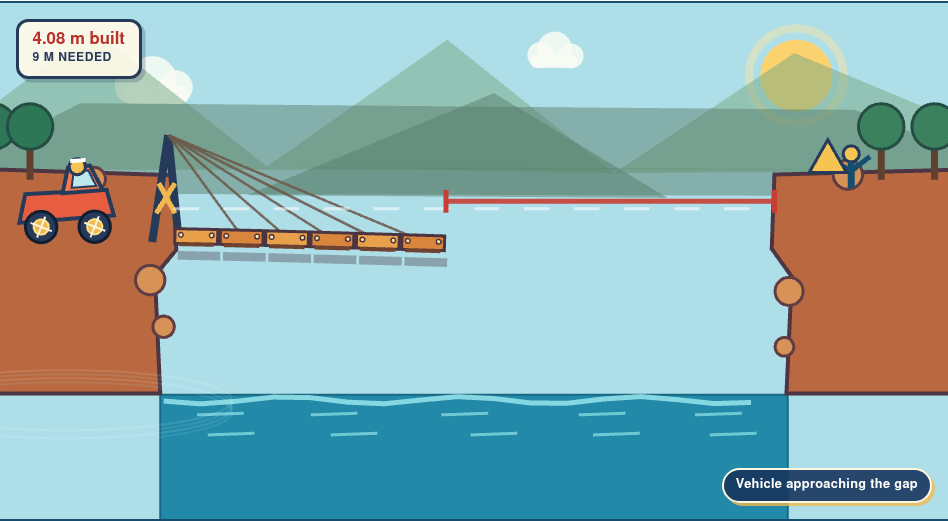
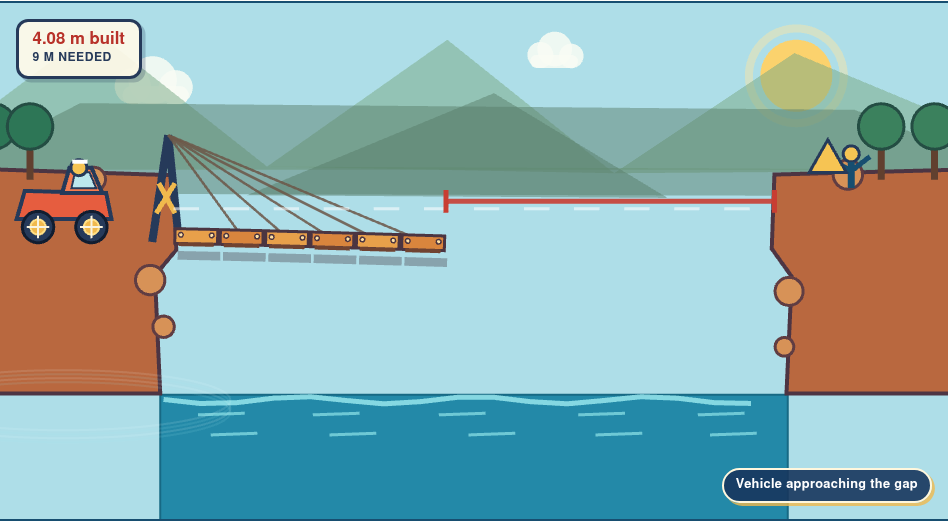
docs: record rescue r2 production evidence
Record the green CI and gated deployment runs, Cloudflare version, focused production performance and semantic checks, and the visually inspected production before/climax frames and complete wrong-run capture. Keep M5 open for human visual approval and M9 blocked.

diff --git a/STATUS.md b/STATUS.md
@@ -11,7 +11,7 @@ States: `not started`, `in progress`, `blocked`, `done`, `cut`.
 | M2 — Deployable room shell | done | On 2026-07-21, local validation, 3 production Chromium tests, CI run `29802489533`, and gated deployment/smoke run `29802536234` passed | None | Begin M3 realtime canvas and deterministic bridge | `0c39b42` (delivery fixes through `c906082`) |
 | M3 — Realtime canvas and deterministic bridge | done | On 2026-07-21, the local gate, CI run `29804635232`, deployment/smoke run `29804696808`, and 11 strengthened production Chromium tests passed; the browser gate requires real PixiJS canvases under strict CSP | None | Begin M4 GPT-5.6 handwriting interpretation | `b76eede` (CSP delivery fix `cb80021`) |
 | M4 — GPT-5.6 handwriting integration | done | On 2026-07-21, 39 unit, 13 Worker/DO/R2 integration, build, 12 mocked Chromium, and the two-sample live gate passed; CI `29807921144`, deploy/smoke `29807995100`, and repeated real production analysis on version `4df2792d-c731-4f05-946b-000671de227e` passed with exact hero inputs, private media, persisted analysis/run, and a clean rendered card | None | Begin M5 complete hero and judge flow | `969f99d` (Worker fetch fix `42ae639`) |
-| M5 — Complete hero and judge flow | in progress | Rescue Checkpoint R0 passed the complete local and production gates. Rescue Checkpoint R2 passed the complete local gate on 2026-07-21: format, lint, strict types, 67 unit, 22 Worker/SQLite DO/R2 integration, build, secret audit, and 22 Chromium tests. Focused browser coverage also passed the 4.08 m articulated failure, replay without a new request, complete reduced-motion meaning, fallback rendering, low-detail controls, and opt-in break/suspension/splash audio. The local R2 verifier measured a 13.94-second semantic sequence, 22.8 fps average and 50.1 ms p95 under headless software rendering, then completed replay and reduced-motion checks. The 1440×1000 before/climax frames and 19.28-second VP8 capture were visually inspected locally. | R2 is implemented and locally green but remains unapproved until the production deployment, focused production verifier, production captures, and human review pass. The successful outcome remains outside this checkpoint. | Commit, push, deploy, run the focused production R2 gate, replace local captures with production evidence, and stop for human approval | R0 implementation `662f28d`; R2 commit pending |
+| M5 — Complete hero and judge flow | in progress | Rescue Checkpoint R0 passed the complete local and production gates. Rescue Checkpoint R2 commit `0476c04` passed the complete local gate and CI `29843521120` on 2026-07-21: format, lint, strict types, 67 unit, 22 Worker/SQLite DO/R2 integration, build, secret audit, and 22 Chromium tests. Gated run `29843719410` deployed Cloudflare version `443a90cd-2777-480f-bb42-78a14940bb86` and passed baseline smoke. The focused production R2 verifier passed the 4.08 m phase sequence in 14.10 seconds at 28.6 fps average / 50.1 ms p95 under headless software rendering, replay without a request, and complete reduced-motion meaning. The final 1440×1000 production before/climax frames and 21.56-second VP8 capture were visually inspected; the video includes setup context around the 14.10-second run. | R2 is deployed and technically green but remains unapproved until human visual review. The successful outcome remains outside this checkpoint. | Stop for human R2 approval; do not begin the successful-outcome rebuild or another rescue checkpoint | R0 implementation `662f28d`; R2 implementation `0476c04`; production evidence recorded in the next checkpoint commit |
 | S1 — Water and volume family | cut | Implementation code and internal integration coverage remain; local and production R0 navigation/route checks pass | Human review has not approved this scenario for the public product | Keep the production feature flag disabled | Historical implementation through `f436986`; hidden in production by `662f28d` |
 | S2 — Speed, time, and collision family | cut | Implementation code and internal integration coverage remain; local and production R0 navigation/route checks pass | Human review has not approved this scenario for the public product | Keep the production feature flag disabled | Historical implementation through `fa857d3`; hidden in production by `662f28d` |
 | S3 — Structure, load, and destruction family | cut | Implementation code and internal integration coverage remain; local and production R0 navigation/route checks pass | Human review has not approved this scenario for the public product | Keep the production feature flag disabled | Historical implementation through `5942254`; hidden in production by `662f28d` |
@@ -27,9 +27,9 @@ GitHub CLI authentication, scoped Actions deployment secrets, the
 authentication, and local `.dev.vars` are available. Secret values were not
 printed. The active blocker is product-quality approval. Rescue Checkpoint R0
 resolved the same-tab judge flow and narrowed the public scope. Rescue Checkpoint
-R2 rebuilds only the wrong bridge consequence and has passed its local gates; it
-still requires production verification and human visual approval. The successful
-outcome has not been rebuilt.
+R2 rebuilds only the wrong bridge consequence and has passed its local and
+production gates; it still requires human visual approval. The successful outcome
+has not been rebuilt.
 
 Credentials still reserved for later gates:
 

diff --git a/docs/08-SUBMISSION-EVIDENCE.md b/docs/08-SUBMISSION-EVIDENCE.md
@@ -28,13 +28,13 @@ Do not use:
 | Item | Value | Status |
 |---|---|---|
 | Production URL | `https://lost-lessons-lab.sanocks.workers.dev` | PASS |
-| Judge URL | `https://lost-lessons-lab.sanocks.workers.dev/judge` | PASS for complete M5 hero |
+| Judge URL | `https://lost-lessons-lab.sanocks.workers.dev/judge` | PASS through Rescue R2; human visual approval pending |
 | Repository URL | `https://github.com/alexandr-panchenko/lost-lessons-lab` | PASS |
 | Public video URL | pending | PENDING |
[1 lines of base64/hex data omitted]
 | Submission commit | pending | PENDING |
 | Submission tag | `build-week-submission` pending | PENDING |
-| Cloudflare deployment/version | M8 final `968d9590-25e6-4a6d-8ea6-e6b12febb9be` from commit `951c978` | PASS through M8 |
+| Cloudflare deployment/version | Rescue R2 `443a90cd-2777-480f-bb42-78a14940bb86` from commit `0476c04` | PASS technically; human visual approval pending |
 | Representative Codex Session ID | store in private submission checklist; pending | PENDING |
 | OpenAI model ID observed in production | `gpt-5.6-sol` | PASS |
 | License | `LICENSE`, Apache-2.0; public GitHub metadata reports Apache-2.0 | PASS |
@@ -48,7 +48,7 @@ Do not use:
 | M3 — realtime canvas and deterministic bridge | Core commit `b76eede`; strict-CSP delivery fix `cb80021`; Cloudflare version `71f9ffc7-9423-413f-a52e-4ccac07ff6c4`; CI `https://github.com/alexandr-panchenko/lost-lessons-lab/actions/runs/29804635232`; deploy/smoke `https://github.com/alexandr-panchenko/lost-lessons-lab/actions/runs/29804696808`; `src/shared/canvas.ts`; `src/shared/domain/bridge.ts`; `src/client/canvas/`; `src/client/simulation/`; `src/simulations/bridge/bridge-world.ts`; `src/worker/room/RoomDurableObject.ts`; `tests/unit/canvas.test.ts`; `tests/unit/bridge.test.ts`; `tests/integration/canvas-room.test.ts`; `tests/e2e/bridge-manual.spec.ts`; `tests/e2e/realtime.spec.ts`; `tests/e2e/responsive.spec.ts`; `docs/evidence/m3/` | On 2026-07-21, the local gate passed 18 unit, 9 Worker/SQLite DO integration, build, and 11 Chromium E2E tests. CI run `29804635232` repeated the full gate and secret scan. Deploy run `29804696808` passed production smoke. A clean production browser run passed all 11 tests, including real PixiJS canvas assertions under strict CSP, two-context layers, reconnect/idempotent resend, immutable cutoff, `4.08 m` recovery, `9 m` crossing, replay without API traffic, reload, three viewports, and reduced motion. The three cropped production screenshots were visually inspected and contain no capability. | PASS |
 | M4 — GPT-5.6 handwriting interpretation | Core commit `969f99d`; Worker fetch delivery fix `42ae639`; Cloudflare version `4df2792d-c731-4f05-946b-000671de227e`; CI `https://github.com/alexandr-panchenko/lost-lessons-lab/actions/runs/29807921144`; deploy/smoke `https://github.com/alexandr-panchenko/lost-lessons-lab/actions/runs/29807995100`; `src/worker/ai/`; `src/worker/routes/attempts.ts`; `src/shared/analysis-types.ts`; `src/shared/validation/bridge-analysis.ts`; `src/client/canvas/student-raster.ts`; `src/client/feed/AnalysisCard.tsx`; `tests/live-ai/`; `scripts/verify-production-ai.ts`; `docs/evidence/m4/analysis-wrong.png` | On 2026-07-21, the final local gate passed 39 unit, 13 Worker/SQLite DO/R2 integration, build, and 12 mocked Chromium tests. The opt-in two-image live gate extracted wrong and correct hero inputs exactly on first responses in 4.55s and 4.23s. After CI and gated deployment, repeated production samples extracted `0.34` and `4.08 m` on first responses in 5.14s, 5.70s, and 8.59s; each persisted a deterministic short-bridge run, denied unauthenticated media, loaded authorized private R2 media, and rendered without console errors. The cropped recognition card was visually inspected and contains no capability. | PASS |
 | M5 — complete hero and judge flow | Core commit `80d93aa`; verification commit `892791e`; Cloudflare version `3143b924-6be1-4436-aa62-167e4ef25e1d`; CI `https://github.com/alexandr-panchenko/lost-lessons-lab/actions/runs/29810106237`; deploy/smoke `https://github.com/alexandr-panchenko/lost-lessons-lab/actions/runs/29810212998`; `src/shared/judge-handwriting.ts`; `src/worker/domain/achievements.ts`; `src/worker/routes/reset.ts`; `src/client/feed/PreparedCorrectionPanel.tsx`; `src/client/feed/AchievementCard.tsx`; `scripts/verify-production-hero.ts`; `docs/evidence/m5/hero-wrong-to-correct.png` | On 2026-07-21, final validation passed 42 unit, 15 Worker/SQLite DO/R2 integration, build, and 12 Chromium tests. The live gate extracted both frozen samples exactly on first GPT-5.6 responses in 4.62s and 5.06s. All 12 tests passed again against production. A clean reduced-motion production browser made exactly two real AI requests, extracted `0.34` / `4.08 m` and `0.75` / `9 m`, rendered both physics outcomes and separate awards, replayed without AI, restored both runs after reload, and reset the same room to prepared state. The final post-propagation smoke passed. | PASS |
-| Rescue R2 — wrong bridge catastrophe | Commit and Cloudflare version pending; `src/simulations/bridge/bridge-world.ts`; `src/client/simulation/BridgeSimulation.tsx`; `src/client/accessibility/useSimulationSound.ts`; `tests/unit/bridge.test.ts`; `tests/e2e/bridge-manual.spec.ts`; `tests/e2e/responsive.spec.ts`; `tests/e2e/accessibility.spec.ts`; `scripts/verify-rescue-r2.ts`; `scripts/capture-rescue-r2.ts`; `docs/evidence/r2/wrong-bridge-before-run.png`; `docs/evidence/r2/wrong-bridge-catastrophe-climax.png`; `docs/evidence/r2/wrong-bridge-complete-run.webm` | On 2026-07-21, the complete local gate passed format, lint, strict types, 67 unit tests, 22 Worker/SQLite DO/R2 integration tests, build, secret audit, and 22 Chromium tests. Broad physics contracts verified at least 10 bodies and 10 joints, load before break, four destroyed bridge joints, a wheel leaving the deck, deck rotation, chassis rotation over 1.2 radians, and water entry without exact-coordinate assertions. Focused browsers verified replay without a new request, the full reduced-motion meaning, fallback/low-detail paths, and opt-in break/suspension/splash sounds. The local verifier measured a 13.94-second sequence at 22.8 fps average / 50.1 ms p95 under software-rendered headless Chromium and repeated replay/reduced-motion checks. The local 1440×1000 before and climax frames and 19.28-second VP8 capture were visually inspected; production evidence and human approval remain pending. | PASS locally; production and human review pending |
+| Rescue R2 — wrong bridge catastrophe | Commit `0476c04`; Cloudflare version `443a90cd-2777-480f-bb42-78a14940bb86`; CI `https://github.com/alexandr-panchenko/lost-lessons-lab/actions/runs/29843521120`; deploy/smoke `https://github.com/alexandr-panchenko/lost-lessons-lab/actions/runs/29843719410`; `src/simulations/bridge/bridge-world.ts`; `src/client/simulation/BridgeSimulation.tsx`; `src/client/accessibility/useSimulationSound.ts`; `tests/unit/bridge.test.ts`; `tests/e2e/bridge-manual.spec.ts`; `tests/e2e/responsive.spec.ts`; `tests/e2e/accessibility.spec.ts`; `scripts/verify-rescue-r2.ts`; `scripts/capture-rescue-r2.ts`; `docs/evidence/r2/wrong-bridge-before-run.png`; `docs/evidence/r2/wrong-bridge-catastrophe-climax.png`; `docs/evidence/r2/wrong-bridge-complete-run.webm` | On 2026-07-21, the complete local gate and CI passed format, lint, strict types, 67 unit tests, 22 Worker/SQLite DO/R2 integration tests, build, secret audit, and 22 Chromium tests. Broad physics contracts verified at least 10 bodies and 10 joints, load before break, four destroyed bridge joints, a wheel leaving the deck, deck rotation, chassis rotation over 1.2 radians, and water entry without exact-coordinate assertions. Focused browsers verified replay without a new request, the full reduced-motion meaning, fallback/low-detail paths, and opt-in break/suspension/splash sounds. The gated deployment and baseline production smoke passed. The focused production verifier observed deploying, driving, failing, falling, splash, and aftermath in 14.10 seconds at 28.6 fps average / 50.1 ms p95 under software-rendered headless Chromium, then repeated replay-without-request and reduced-motion checks. The final production 1440×1000 before/climax frames and 21.56-second VP8 capture were visually inspected; the video includes setup context around the 14.10-second scene. Technical gates pass; human visual approval remains pending. | PASS technically; human review pending |
 | S1 — water and volume family | Core commit `c586be7`; verified-entry commit `5508df4`; verifier commit `f436986`; Cloudflare version `398a8f5c-9cc7-4887-9b85-b0f641cfbca4`; CI `https://github.com/alexandr-panchenko/lost-lessons-lab/actions/runs/29813159173`; deploy/smoke `https://github.com/alexandr-panchenko/lost-lessons-lab/actions/runs/29813260681`; `src/shared/domain/water.ts`; `src/shared/validation/water-analysis.ts`; `src/simulations/water/water-world.ts`; `fixtures/water/packs.ts`; `scripts/verify-production-water.ts`; `docs/evidence/s1/water-correct-and-overflow.png` | On 2026-07-21, the final local gate passed 49 unit, 17 Worker/SQLite DO/R2 integration, build, and 13 Chromium tests; CI repeated the gate and secret scan. All 13 browser paths passed against the final production version, including the enabled skill link and unchanged hero. Repeated clean production runs each made one real AI request; the final strengthened verifier explicitly asserted visible `gpt-5.6-sol`, exact `3 L/min`, `5 min`, and `15 L`, the deterministic correct level and separate manual `24 L` bounded overflow with distinct awards, replay without AI, persistence across reload, and reset to prepared ink. The production capture was visually inspected and contains no capability. | PASS |
 | S2 — speed, time, and collision family | Core commit `2a5ffbb`; verified-entry commit `fa857d3`; Cloudflare version `33e4f9eb-a13b-427d-b01c-464d353a827e`; CI `https://github.com/alexandr-panchenko/lost-lessons-lab/actions/runs/29814757030`; deploy/smoke `https://github.com/alexandr-panchenko/lost-lessons-lab/actions/runs/29814874095`; `src/shared/domain/speed.ts`; `src/shared/validation/speed-analysis.ts`; `src/simulations/speed/speed-world.ts`; `fixtures/speed/packs.ts`; `scripts/verify-production-speed.ts`; `docs/evidence/s2/speed-correct-and-collision.png` | On 2026-07-21, the final local gate passed 55 unit, 19 Worker/SQLite DO/R2 integration, build, and 14 Chromium tests; CI repeated the gate and secret scan. All 14 browser paths passed against the final production version at bounded concurrency, including the enabled speed link and unchanged hero/water flows. Repeated clean production runs each made one real AI request and explicitly asserted visible `gpt-5.6-sol`, exact `8 m/s`, `3 s`, and `24 m`, deterministic target arrival and a separate manual `36 m` soft-bumper collision with distinct awards, replay without AI, persistence across reload, and reset to prepared ink. The extreme headless CCD case contacted the bumper without tunneling. The production capture was visually inspected and contains no capability. | PASS |
 | S3 — structure, load, and destruction family | Core commit `81af212`; verified-entry commit `5942254`; Cloudflare version `d536c44d-5f34-4e00-b528-47a8347ffcd0`; CI `https://github.com/alexandr-panchenko/lost-lessons-lab/actions/runs/29817214716`; deploy/smoke `https://github.com/alexandr-panchenko/lost-lessons-lab/actions/runs/29817376261`; `src/shared/domain/structure.ts`; `src/shared/validation/structure-analysis.ts`; `src/simulations/structure/structure-world.ts`; `fixtures/structure/packs.ts`; `scripts/verify-production-structure.ts`; `docs/evidence/s3/structure-stable-and-collapse.png` | On 2026-07-21, the final local gate passed 61 unit, 21 Worker/SQLite DO/R2 integration, build, and 15 Chromium tests; CI repeated the gate and secret scan. All 15 browser paths passed against the enabled production version at bounded concurrency, including the structure skill link and unchanged hero/water/speed flows. Repeated clean production runs each made one real AI request and explicitly asserted visible `gpt-5.6-sol`, exact 12 items, 5 kg per item, and 60 kg total, the deterministic stable platform and a separate manual 90 kg bounded 12-fragment collapse with distinct awards, replay without AI, persistence across reload, and reset to prepared ink. Repeated headless worlds settled with finite positions and explicit teardown. The production capture was visually inspected and contains no capability. | PASS |